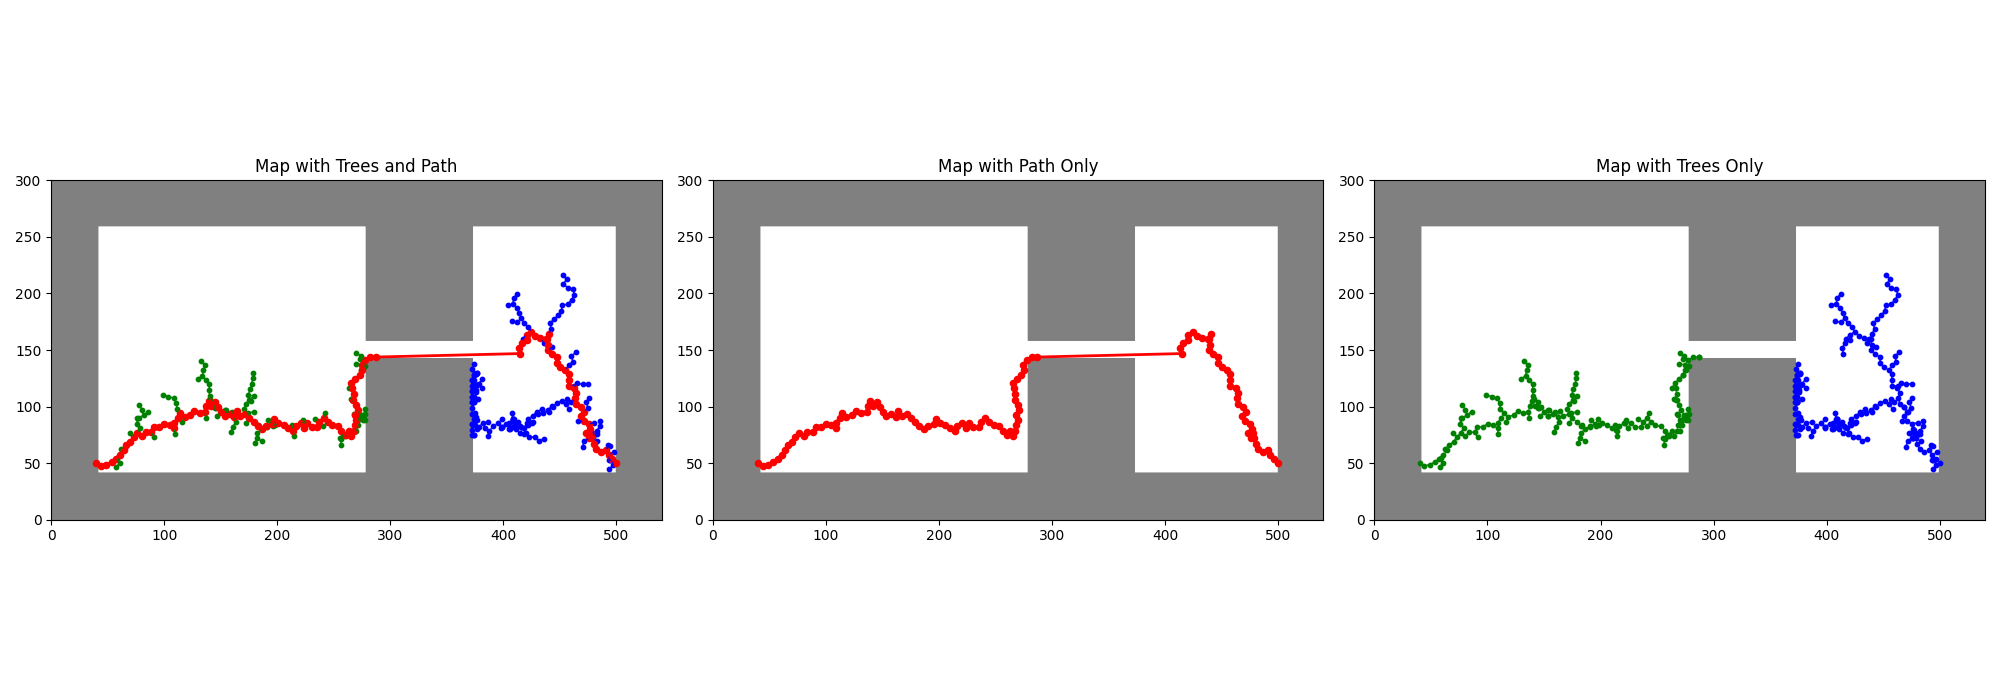
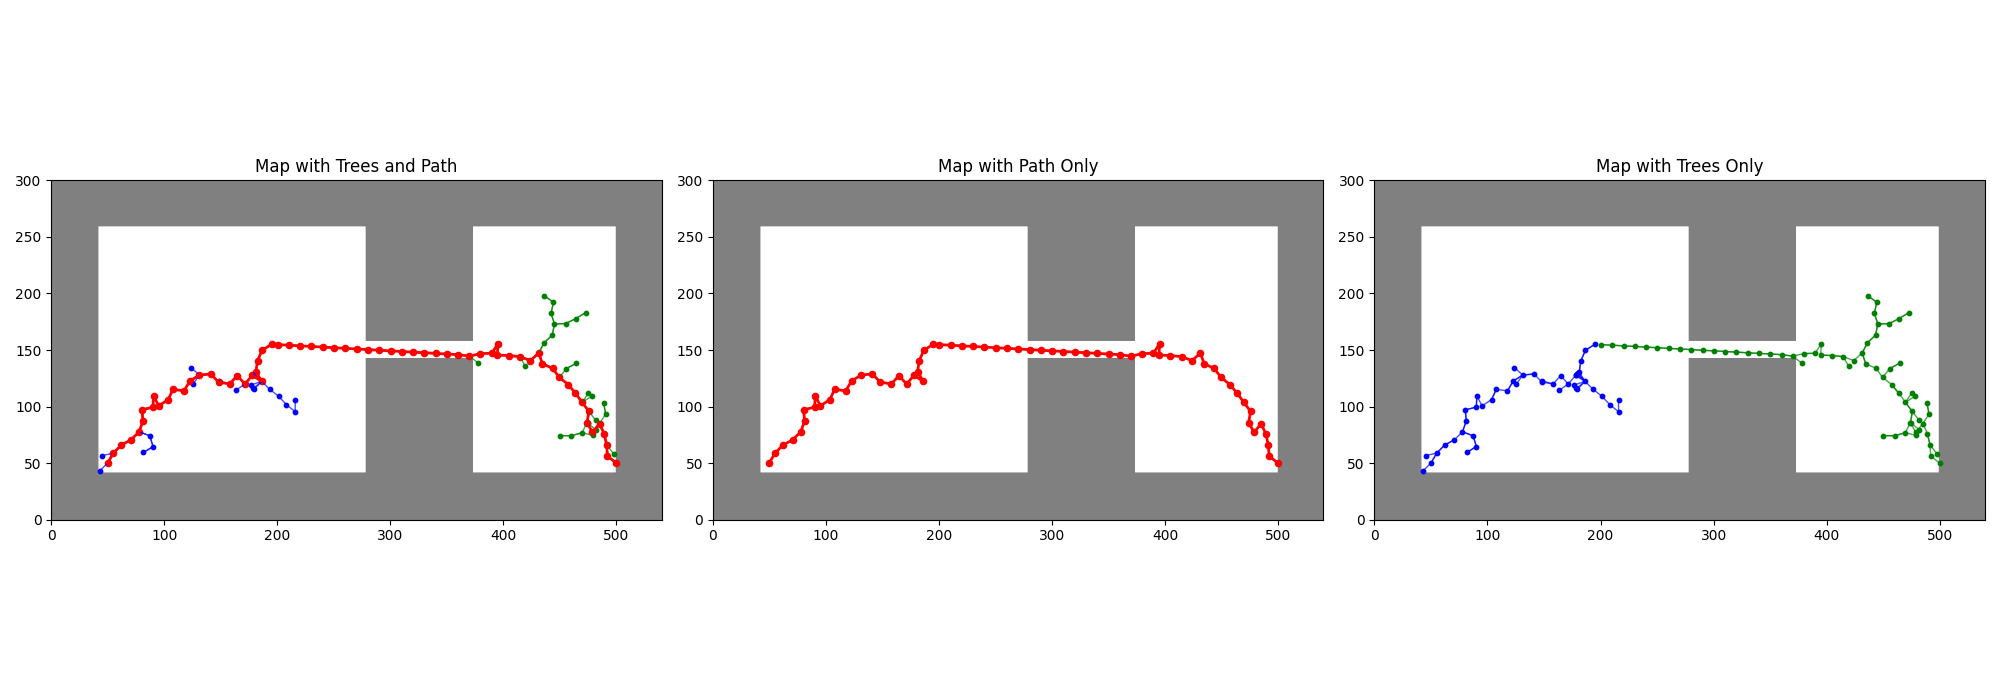
Fixed edge case

diff --git a/search.py b/search.py
@@ -492,7 +492,7 @@ def delta():
     """
     Return the step size for expansion.
     """
-    return 5  # Example step size
+    return 10  # Example step size
 
 ####################################################################
 # Algorithm 2
@@ -502,7 +502,7 @@ def connect(tree, qnew):
     # Algorithm 2 line 1
     while True:
         # Algorithm 2 line 2
-        extend_result, qnew = extend(tree, qnew)
+        extend_result, _ = extend(tree, qnew)
         # Algorithm 2 line 3
         if extend_result != "Advanced":
             break
@@ -596,14 +596,6 @@ def arrt_connect(qinit, qgoal, k_max, pgoal, poutside):
 
         # Algorithm 1 line 10
         tree_a, tree_b, failure = swap_trees(tree_a, tree_b, failure, threshold)
-
-        if k % 100 == 0:  # Update every iteration
-            elapsed_time = time.time() - start_time
-            minutes = int(elapsed_time // 60)
-            seconds = int(elapsed_time % 60)
-            milliseconds = int((elapsed_time % 1) * 1000)
-            print(f"Iteration {k}/{k_max}: Tree A nodes = {len(tree_a.nodes)}, Tree B nodes = {len(tree_b.nodes)}, Elapsed time = {minutes}m {seconds}s {milliseconds}ms")
-            # visualize_path_and_trees(map_instance, tree_a, tree_b, [])
 
     # Algorithm 1 line 12
     elapsed_time = time.time() - start_time
@@ -720,13 +712,17 @@ def visualize_path(ax, path, color="red"):
 
 if __name__ == "__main__":
     # Example usage
-    qinit = (50, 250)  # Starting point
+    qinit = (50, 50)  # Starting point
     qgoal = (500, 50)  # Target point
     k_max = 25_000  # Maximum iterations
     pgoal = 0.2  # Probability of sampling qgoal
     poutside = 0.95  # Range for random sampling
 
     result, tree_a, tree_b = arrt_connect(qinit, qgoal, k_max, pgoal, poutside)
+    # Calculate and print the path length
+    path_length = sum(distance(result[i], result[i + 1]) for i in range(len(result) - 1))
+    print(f"Path length: {path_length:.2f} cm")
+
     if result != "Fail":
         print(f"Search completed. Path found with {len(tree_a.nodes)} nodes in Tree A and {len(tree_b.nodes)} nodes in Tree B.")
         visualize_path_and_trees(tree_a, tree_b, result)

diff --git a/src/arrt_connect/search.py b/src/arrt_connect/search.py
@@ -492,7 +492,7 @@ def delta():
     """
     Return the step size for expansion.
     """
-    return 5  # Example step size
+    return 10  # Example step size
 
 ####################################################################
 # Algorithm 2
@@ -502,7 +502,7 @@ def connect(tree, qnew):
     # Algorithm 2 line 1
     while True:
         # Algorithm 2 line 2
-        extend_result, qnew = extend(tree, qnew)
+        extend_result, _ = extend(tree, qnew)
         # Algorithm 2 line 3
         if extend_result != "Advanced":
             break
@@ -596,14 +596,6 @@ def arrt_connect(qinit, qgoal, k_max, pgoal, poutside):
 
         # Algorithm 1 line 10
         tree_a, tree_b, failure = swap_trees(tree_a, tree_b, failure, threshold)
-
-        if k % 100 == 0:  # Update every iteration
-            elapsed_time = time.time() - start_time
-            minutes = int(elapsed_time // 60)
-            seconds = int(elapsed_time % 60)
-            milliseconds = int((elapsed_time % 1) * 1000)
-            print(f"Iteration {k}/{k_max}: Tree A nodes = {len(tree_a.nodes)}, Tree B nodes = {len(tree_b.nodes)}, Elapsed time = {minutes}m {seconds}s {milliseconds}ms")
-            # visualize_path_and_trees(map_instance, tree_a, tree_b, [])
 
     # Algorithm 1 line 12
     elapsed_time = time.time() - start_time
@@ -720,13 +712,17 @@ def visualize_path(ax, path, color="red"):
 
 if __name__ == "__main__":
     # Example usage
-    qinit = (50, 250)  # Starting point
+    qinit = (50, 50)  # Starting point
     qgoal = (500, 50)  # Target point
     k_max = 25_000  # Maximum iterations
     pgoal = 0.2  # Probability of sampling qgoal
     poutside = 0.95  # Range for random sampling
 
     result, tree_a, tree_b = arrt_connect(qinit, qgoal, k_max, pgoal, poutside)
+    # Calculate and print the path length
+    path_length = sum(distance(result[i], result[i + 1]) for i in range(len(result) - 1))
+    print(f"Path length: {path_length:.2f} cm")
+
     if result != "Fail":
         print(f"Search completed. Path found with {len(tree_a.nodes)} nodes in Tree A and {len(tree_b.nodes)} nodes in Tree B.")
         visualize_path_and_trees(tree_a, tree_b, result)
